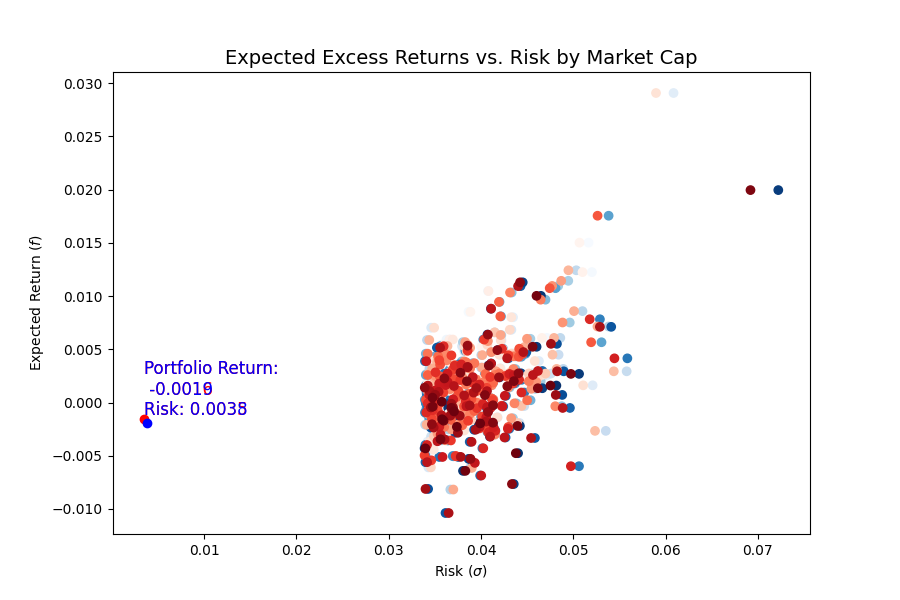
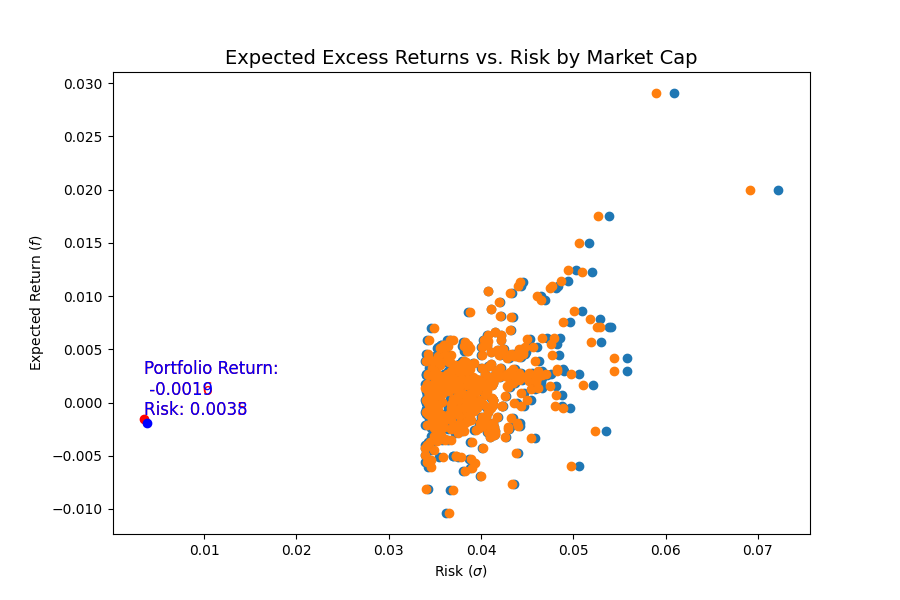
commit

diff --git a/pt3.py b/pt3.py
@@ -176,10 +176,10 @@ plt.show()
 x1 = stock_std_dev
 x2 = stock_std_dev_JSE
 y1 = expected_returns
-z1 = new_df.iloc[0, :]
+
 fig, ax = plt.subplots(figsize=(9, 6))
-ax.scatter(x1, y1, label='PCA', c=z1, cmap='Blues')
-ax.scatter(x2, y1, label='JSE', c=z1, cmap='Reds')
+ax.scatter(x1, y1, label='PCA')
+ax.scatter(x2, y1, label='JSE')
 ax.plot(portfolio_std_dev, portfolio_expected_returns, 'ro')
 ax.text(portfolio_std_dev, portfolio_expected_returns,
         f'Portfolio Return:\n {portfolio_expected_returns:.4f}\nRisk: {portfolio_std_dev:.4f}',
